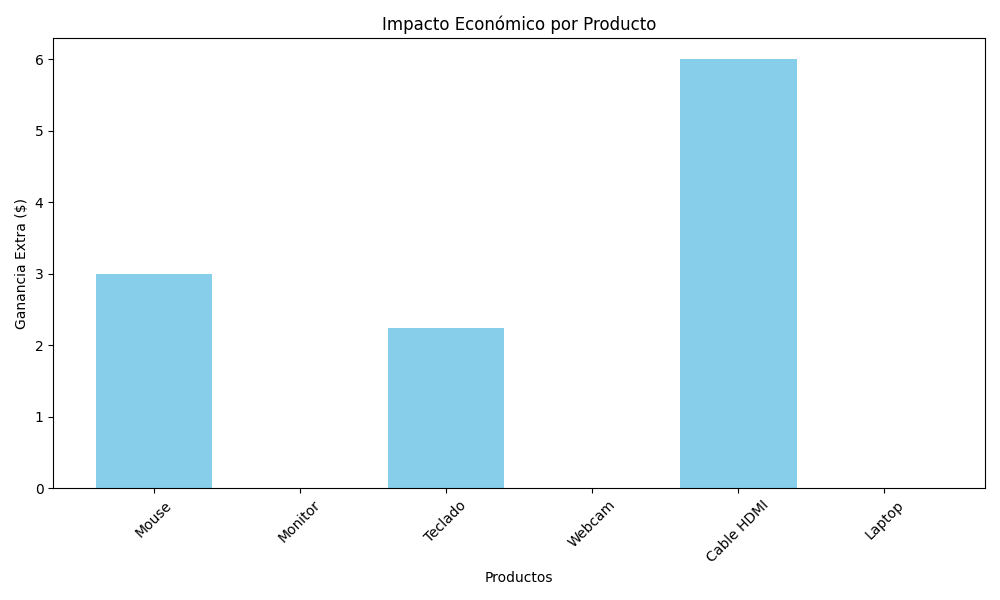
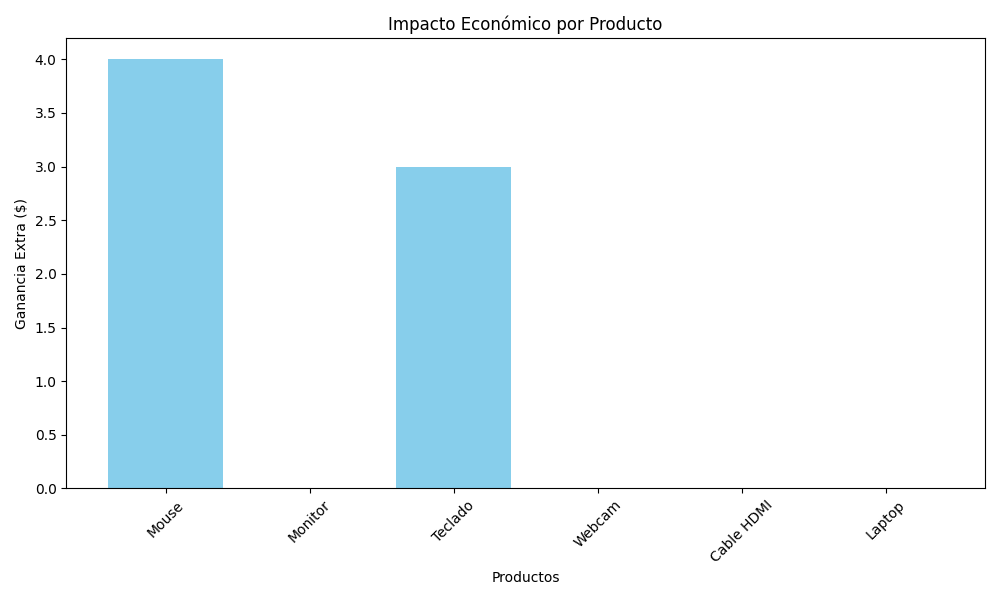
Automatizacion

diff --git a/Proyectos personales/automatizacion_sheets.py b/Proyectos personales/automatizacion_sheets.py
@@ -9,10 +9,11 @@ import pandas as pd
 df = pd.read_csv("ventas - Hoja 1.csv")
 
 def calcular_ajuste(precio):
-    if precio < 50:
-        return precio * 0.15
+    if precio < 30:
+        return precio * 0.20
     else:
         return 0
+print ("Ajustando el precio economico... ")
 
 
 df['Aumento'] = df['Precio'].apply(calcular_ajuste)
